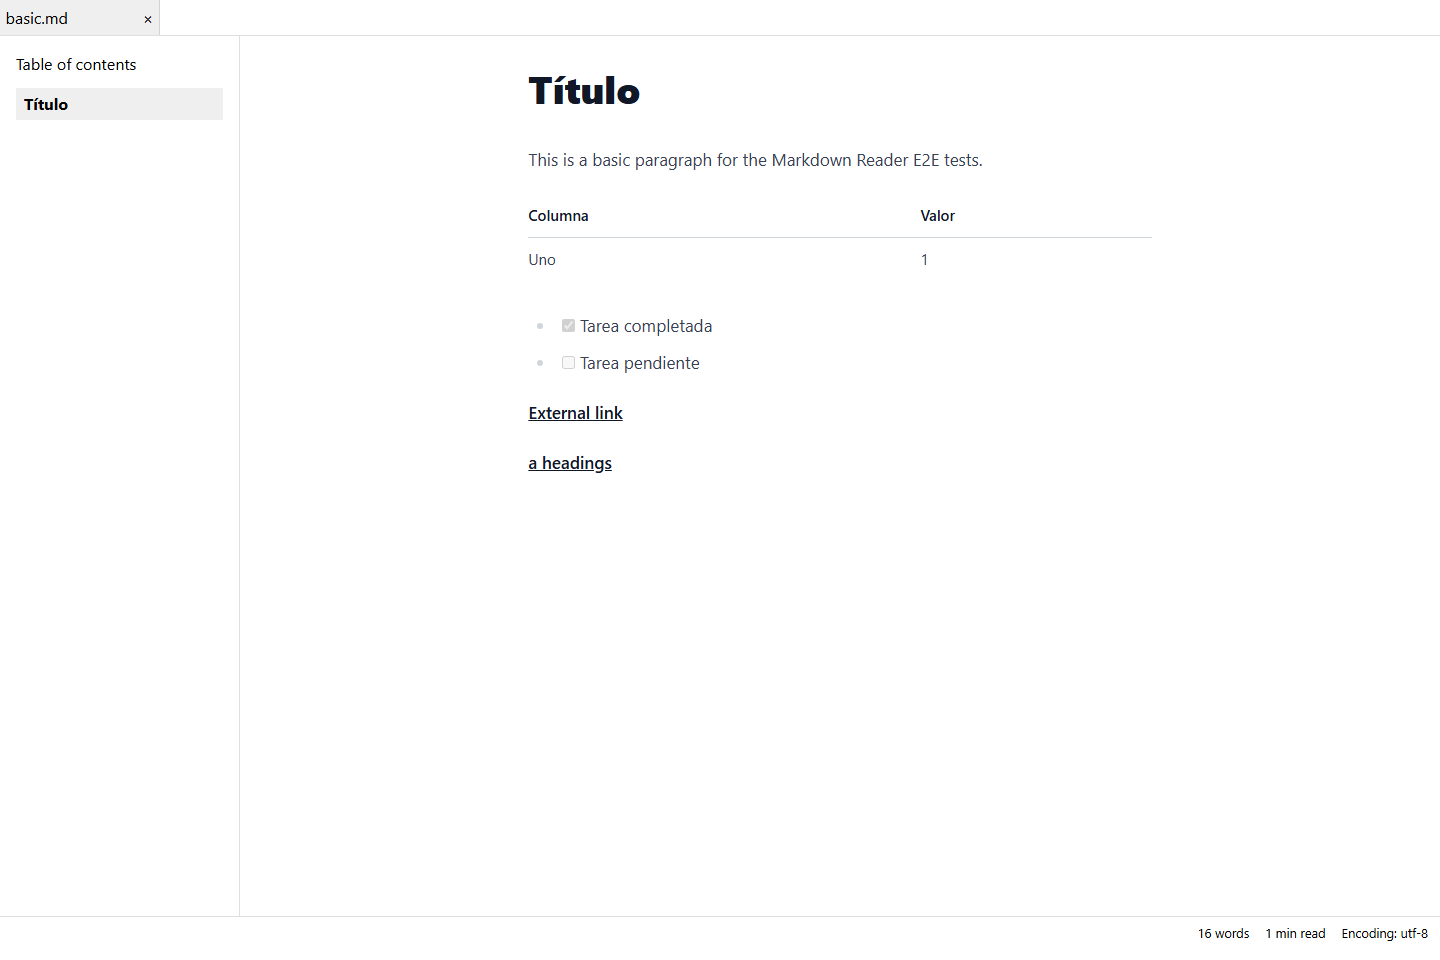
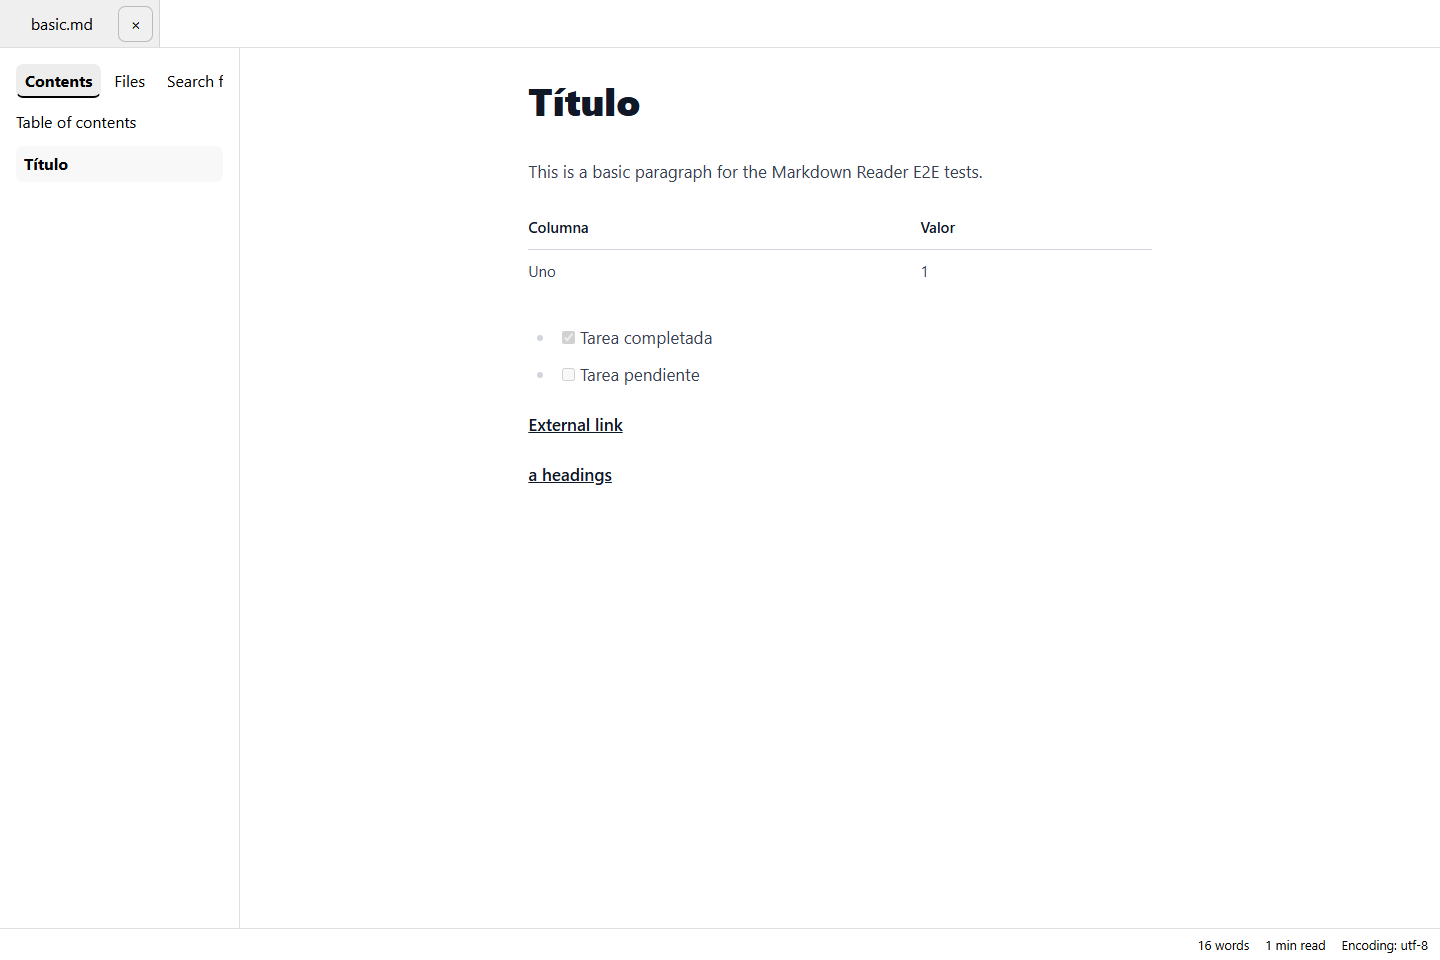
chore: release 2.0.0

diff --git a/README.md b/README.md
@@ -6,20 +6,27 @@ Markdown Reader is a secure, cross-platform desktop app for reading Markdown fil
 
 ## Features
 
-- Safe Markdown rendering with GitHub Flavored Markdown, alerts, heading links, and Shiki syntax highlighting.
-- Inline and display math rendered locally with KaTeX (`$...$` and `$$` on separate lines).
-- Mermaid diagrams rendered on demand with strict SVG sanitization and light/dark themes.
-- Folder workspaces with a recursive, `.gitignore`-aware Markdown tree and live refresh.
-- Multiple tabs, drag-and-drop, recent files, pinned files, and session/scroll restoration.
+- Safe GitHub Flavored Markdown rendering, alerts, heading links, Shiki syntax highlighting, math, and Mermaid diagrams.
+- Folder workspaces with a recursive, `.gitignore`-aware Markdown tree, live refresh, quick open, and full-text search across Markdown files.
+- Multiple tabs, drag-and-drop, recent and pinned files, and session/scroll restoration.
 - Table of contents, word count, estimated reading time, and encoding information.
 - Relative local images, optional blocking of remote images, and automatic file reload while preserving the reading position.
-- Find in document, English and Spanish UI, keyboard shortcuts, native menus, and configurable theme and typography.
-- Windows file association, single-instance handling, and command-line file opening.
-- Signed automatic updates, with an optional periodic update check and a manual check in Help/About.
+- Find in document, English and Spanish UI, keyboard shortcuts, native menus, configurable themes and typography, and focus mode.
+- Export the current document as standalone HTML or print it / save it as PDF through the operating system's print dialog.
+- Optional AI assistant: summarize, explain a selection, translate, and ask questions about the current document.
+- Windows file association, single-instance handling, signed automatic updates, and command-line file opening.
+
+## AI and privacy
+
+AI is off by default. When enabled, the app sends the selected document context and your prompt to the provider configured in Settings. The provider processes that content according to its own privacy policy. Remote providers require explicit per-host approval before document context is sent; you can revoke approved hosts in Settings. The app does not add telemetry.
+
+For local processing, install [Ollama](https://ollama.com), download a model (for example, `ollama pull qwen2.5:3b`), start it with `ollama serve`, then enable AI in Settings and choose the Ollama preset and a model. The document remains on your computer when using a local provider.
+
+For a remote provider, choose a preset or configure a compatible endpoint in Settings. Enter the API key in the protected key field; it is stored in the operating system keychain and is not shown again. Do not put API keys in Markdown files, screenshots, or issue reports.
 
 ## Download
 
-Installers are published as draft releases on the [GitHub Releases](https://github.com/abelrgr/markdown-reader/releases) page. The current development version is `2.0.0-beta.1`.
+Installers are published on the [GitHub Releases](https://github.com/abelrgr/markdown-reader/releases) page. The current version is `2.0.0`.
 
 ## Development
 
@@ -28,20 +35,21 @@ Requirements: Node.js 24 LTS with npm, Rust stable 1.85 or newer, and the [Tauri
 ```sh
 npm ci
 npm run tauri dev
+npm run check
 npm test
 npm run e2e
 ```
 
-Other checks: `npm run check`, `npm run build`, `cargo test --manifest-path src-tauri/Cargo.toml`, and `cargo clippy --manifest-path src-tauri/Cargo.toml -- -D warnings`.
+Other checks: `npm run build`, `cargo test --manifest-path src-tauri/Cargo.toml`, and `cargo clippy --manifest-path src-tauri/Cargo.toml -- -D warnings`.
 
 ### Release signing and updates
 
-Updater artifacts are signed with the Tauri updater key. Generate and keep the private key on a trusted release machine (`npx tauri signer generate -w ~/.tauri/markdown-reader.key`); put only its public key in `src-tauri/tauri.conf.json` and store the private key and password as the `TAURI_SIGNING_PRIVATE_KEY` and `TAURI_SIGNING_PRIVATE_KEY_PASSWORD` GitHub Actions secrets. Never commit the private key. Windows code signing and macOS notarization are optional and require paid certificates/accounts; configure `WINDOWS_CERTIFICATE`, `WINDOWS_CERTIFICATE_PASSWORD`, `APPLE_CERTIFICATE`, `APPLE_CERTIFICATE_PASSWORD`, `APPLE_SIGNING_IDENTITY`, `APPLE_ID`, `APPLE_PASSWORD`, and `APPLE_TEAM_ID` as repository secrets when available.
+Updater artifacts are signed with the Tauri updater key. Generate and keep the private key on a trusted release machine (`npx tauri signer generate -w ~/.tauri/markdown-reader.key`); put only its public key in `src-tauri/tauri.conf.json` and store the private key and password as the `TAURI_SIGNING_PRIVATE_KEY` and `TAURI_SIGNING_PRIVATE_KEY_PASSWORD` GitHub Actions secrets. Never commit the private key. Windows code signing and macOS notarization are optional and require paid certificates/accounts; configure the relevant GitHub Actions secrets when available.
 
 ## Project structure
 
-- `src/` — Svelte UI, native API boundary, Markdown pipeline, state, and DOM utilities.
-- `src-tauri/` — Rust backend and Tauri configuration.
+- `src/` — Svelte UI, typed native API boundary, Markdown pipeline, AI prompts/session, state, and DOM utilities.
+- `src-tauri/src/` — Rust backend, including `ai/`, `folders.rs`, and `search.rs`.
 - `tests/e2e/` — Playwright tests and Markdown fixtures.
 - `docs/` — refactor specification, plans, and QA checklist.
 - `examples/` — sample Markdown documents for testing reader features.

diff --git a/docs/superpowers/plans/2026-11-02-phase-2-v1-1.md b/docs/superpowers/plans/2026-11-02-phase-2-v1-1.md
@@ -469,7 +469,7 @@ User instructions: summary → "Summarize this document: a one-paragraph TL;DR, 
   - the API key field never shows the saved key: it shows "Key saved" and a "Delete" button.
 - [x] **Step 3: FAIL → Implement.** Responses are rendered with `renderMarkdown` (they go through sanitization) and re-rendered at most every 100 ms during the stream. The "Ask" transcript retains every user/assistant turn and sends prior turns with follow-up questions; it is per active tab session, cleared by "New chat" or when the tab closes, and not persisted. The panel uses distinct chat bubbles, a scrollable transcript with live autoscroll, closes when the last document closes, and has visible input focus styling. If the document exceeds `maxChars` and was trimmed, the panel says so ("Used N of M sections").
 - [x] **Step 4: PASS** with real DeepSeek: the user confirmed it summarizes a real README and says it cannot find information absent from the document.
-- [ ] **Step 5: PASS → Commit** `feat(ai): summarize, explain, translate and ask the document`.
+- [x] **Step 5: PASS → Commit** `feat(ai): summarize, explain, translate and ask the document` (`62b9985`).
 
 ---
 
@@ -477,7 +477,7 @@ User instructions: summary → "Summarize this document: a one-paragraph TL;DR, 
 
 **Files:** Modify: `README.md`, `CLAUDE.md`, `docs/QA-CHECKLIST.md`, `package.json`
 
-- [ ] **Step 1:** README (English): new sections (folders, search, export, AI and privacy: what is sent, to whom, how to use Ollama locally, how to save a key), new screenshot. `CLAUDE.md`: add the `ai/`, `search.rs`, `folders.rs` modules.
-- [ ] **Step 2:** QA-CHECKLIST: add folder with 10 000+ files, search, PDF export on all 3 OSes, update from `2.0.0-beta.1` to `2.0.0`, AI with local Ollama.
-- [ ] **Step 3: Full verification** (same commands as Phase 1 Task 16) → PASS.
-- [ ] **Step 4:** version `2.0.0`, commit `chore: release 2.0.0`, `git tag v2.0.0` (local only; pushing the tag or branch requires the owner's explicit approval).
+- [x] **Step 1:** README now documents folders/search, HTML/PDF export, AI data flow and privacy, local Ollama, keychain storage, and project layout; `readme_assets/markdown-reader.png` was refreshed from the current app. `CLAUDE.md` documents `src/lib/ai/`, `search.rs`, and `folders.rs`.
+- [x] **Step 2:** QA-CHECKLIST now includes a 10,000+ file workspace, search, PDF export, signed upgrade from `2.0.0-beta.1` to `2.0.0`, and local Ollama coverage on each desktop OS.
+- [x] **Step 3: Full verification** → PASS in GitHub Actions run `41700246911` (`8255df6`): frontend checks/tests/build, E2E, Rust fmt/clippy/tests on Windows/macOS/Linux, and Windows Tauri packaging with signed updater artifacts.
+- [x] **Step 4:** version and lockfile set to `2.0.0`; commit `chore: release 2.0.0` and create local tag `v2.0.0`. The release tag remains local; no release or tag push was made.

diff --git a/docs/QA-CHECKLIST.md b/docs/QA-CHECKLIST.md
@@ -15,6 +15,11 @@ Run these checks on each supported desktop OS before publishing a release. Use t
 - [x] Load the local relative image in `05-links-images-security.md`. (User-confirmed on the rebuilt local app, 2026-11-02.)
 - [ ] Check the shortcuts for opening, closing, reloading, searching, zooming, and switching tabs.
 - [ ] Close and reopen the app; verify tabs, active document, scroll position, and window size are restored.
+- [ ] Open a workspace with at least 10,000 files; confirm folder listing, quick open, and navigation stay responsive.
+- [ ] Search for text across a large folder; confirm results, previews, and opening a result at the matching location.
+- [ ] Export to PDF using the system print dialog and export standalone HTML; verify images and page layout.
+- [ ] With AI enabled, summarize a README and ask a question not answered by it; confirm it acknowledges missing information. Prefer local Ollama for the release QA run.
+- [ ] On a `2.0.0-beta.1` installation, check for updates and verify the signed `2.0.0` update can be downloaded and installed.
 
 ### Windows findings (2026-11-02)
 
@@ -29,6 +34,9 @@ Run these checks on each supported desktop OS before publishing a release. Use t
 - [ ] Verify `.md` file association, opening another file in the existing instance, and drag and drop.
 - [ ] Verify relative images in paths with spaces and accents.
 - [ ] Verify dark theme, shortcuts, external-editor reload, and restored tabs/window state.
+- [ ] Open a workspace with 10,000+ files and run folder search.
+- [ ] Export a document to PDF via the system print dialog.
+- [ ] Verify AI with local Ollama: summarize a README and ask about information absent from it.
 
 ## Linux
 
@@ -36,6 +44,13 @@ Run these checks on each supported desktop OS before publishing a release. Use t
 - [ ] Verify `.md` file association, opening another file in the existing instance, and drag and drop.
 - [ ] Verify relative images in paths with spaces and accents.
 - [ ] Verify dark theme, shortcuts, external-editor reload, and restored tabs/window state.
+- [ ] Open a workspace with 10,000+ files and run folder search.
+- [ ] Export a document to PDF via the system print dialog.
+- [ ] Verify AI with local Ollama: summarize a README and ask about information absent from it.
+
+## Upgrade QA
+
+- [ ] Upgrade from `2.0.0-beta.1` to `2.0.0` using the signed automatic updater and verify open documents/settings remain usable.
 
 ## Automated verification
 

diff --git a/CLAUDE.md b/CLAUDE.md
@@ -15,7 +15,11 @@ Markdown Reader is a secure, cross-platform Markdown reader built with Tauri 2, 
 - `src/lib/native/` — typed boundary to native APIs
 - `src/lib/markdown/` — safe Markdown rendering pipeline
 - `src/lib/state/` — tabs, settings, recents and session
+- `src/lib/ai/` — provider presets, context selection, prompts and per-tab AI chat session
 - `src/components/` — Svelte UI components
+- `src-tauri/src/ai/` — provider streaming (OpenAI-compatible and Anthropic) and AI request lifecycle
+- `src-tauri/src/search.rs` — full-text search across Markdown documents in a folder
+- `src-tauri/src/folders.rs` — `.gitignore`-aware Markdown folder listing and workspace operations
 - `src-tauri/` — Rust backend and Tauri configuration
 - `tests/e2e/` — Playwright tests and fixtures
 - `docs/superpowers/plans/` — implementation plans
